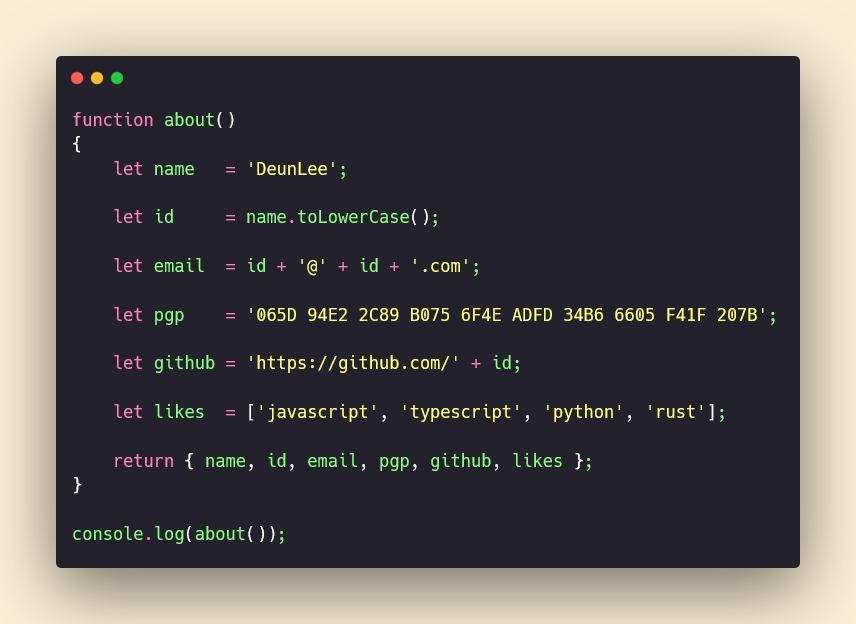
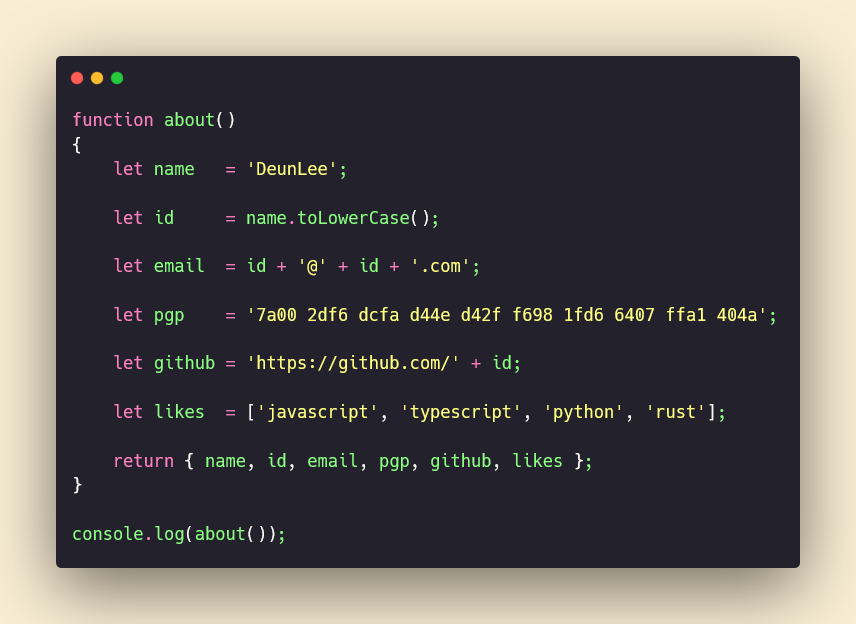
Update

diff --git a/README.md b/README.md
@@ -1,7 +1,5 @@
 ![](https://raw.githubusercontent.com/deunlee/deunlee/main/about.png)
 
-[PGP](https://keys.openpgp.org/search?q=065D94E22C89B0756F4EADFD34B66605F41F207B)
-
 <!--
 - 🔭 I’m currently working on ...
 - 🌱 I’m currently learning ...
@@ -11,36 +9,4 @@
 - 📫 How to reach me: ...
 - 😄 Pronouns: ...
 - ⚡ Fun fact: ...
--->
-
-<!-- https://carbon.now.sh/ -->
-
-<!--
-function about()
-{
-    let name   = 'DeunLee';
-  
-    let id     = name.toLowerCase();
-  
-    let email  = id + '@' + id + '.com';
- 
-    let pgp    = '065D 94E2 2C89 B075 6F4E ADFD 34B6 6605 F41F 207B';
-
-    let github = 'https://github.com/' + id;
-  
-    let likes  = ['javascript', 'typescript', 'python', 'rust'];
-  
-    return { name, id, email, pgp, github, likes };
-}
-
-console.log(about());
--->
-
-<!--
-git config --global user.name "Deun Lee"
-git config --global user.email "54697735+deunlee@users.noreply.github.com"
-git config --global -l
-
-git config --local -l
-
 -->
